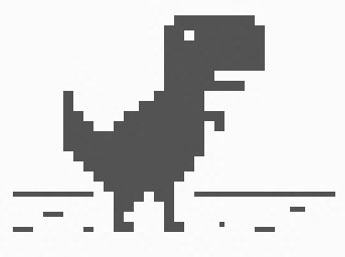
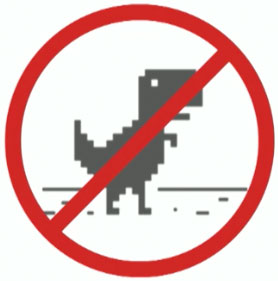
even more slide content tweaks

diff --git a/public/service-worker.js b/public/service-worker.js
@@ -37,11 +37,13 @@ var filesToCache = [
 	'/images/home.svg',
 	'/images/checkmark.svg',
 	'/images/logo.svg',
+	'/images/slides/bad.jpg',
 	'/images/slides/discoverable.jpg',
 	'/images/slides/emmet.jpg',
 	'/images/slides/evergreen.jpg',
 	'/images/slides/feels-like-an-app.jpg',
 	'/images/slides/fruit-ninja.jpg',
+	'/images/slides/great-job.jpg',
 	'/images/slides/installable.jpg',
 	'/images/slides/iphone-safari.jpg',
 	'/images/slides/linkable.jpg',
@@ -49,9 +51,11 @@ var filesToCache = [
 	'/images/slides/progressive-enhancement.jpg',
 	'/images/slides/re-engageable.jpg',
 	'/images/slides/responsive.jpg',
-	'/images/slides/ssl.png',
+	'/images/slides/sad.jpg',
+	'/images/slides/ssl.jpg',
 	'/images/slides/steve-jobs-small.jpg',
 	'/images/slides/steve-jobs.jpg',
+	'/images/slides/thumb-up.jpg',
 	'/images/slides/title-bg.jpg',
 	'/images/icons/favicon-16x16.png',
 	'/images/icons/favicon-32x32.png',

diff --git a/source/service-worker.js b/source/service-worker.js
@@ -37,11 +37,13 @@ var filesToCache = [
 	'/images/home.svg',
 	'/images/checkmark.svg',
 	'/images/logo.svg',
+	'/images/slides/bad.jpg',
 	'/images/slides/discoverable.jpg',
 	'/images/slides/emmet.jpg',
 	'/images/slides/evergreen.jpg',
 	'/images/slides/feels-like-an-app.jpg',
 	'/images/slides/fruit-ninja.jpg',
+	'/images/slides/great-job.jpg',
 	'/images/slides/installable.jpg',
 	'/images/slides/iphone-safari.jpg',
 	'/images/slides/linkable.jpg',
@@ -49,9 +51,11 @@ var filesToCache = [
 	'/images/slides/progressive-enhancement.jpg',
 	'/images/slides/re-engageable.jpg',
 	'/images/slides/responsive.jpg',
-	'/images/slides/ssl.png',
+	'/images/slides/sad.jpg',
+	'/images/slides/ssl.jpg',
 	'/images/slides/steve-jobs-small.jpg',
 	'/images/slides/steve-jobs.jpg',
+	'/images/slides/thumb-up.jpg',
 	'/images/slides/title-bg.jpg',
 	'/images/icons/favicon-16x16.png',
 	'/images/icons/favicon-32x32.png',

diff --git a/source/slides/web-apps-drawbacks.html b/source/slides/web-apps-drawbacks.html
@@ -1,8 +1,9 @@
+<img class="image image--align-right" src="/images/slides/sad.jpg" alt="Sad" />
 <ul>
 	<li>Limited access to native device features (historically)</li>
 	<li>Slow performance over poor connections, no offline access</li>
 	<li>Must support many devices and browsers</li>
-	<li>No app store, so discoverability is reduced</li>
+	<li>No app store, reduced discoverability</li>
 	<li>Limited re-engageability</li>
 </ul>
 

diff --git a/source/slides/advanced-pwa-traits-discoverable.html b/source/slides/advanced-pwa-traits-discoverable.html
@@ -1,6 +1,6 @@
 <img class="image image--align-right" src="/images/slides/discoverable.jpg" alt="Screenshot of the PWA Directory" />
 <ul>
 	<li>Websites identify themselves to search engines as an application that can be cataloged and ranked</li>
-	<li>App directories are emerging</li>
+	<li>PWA directories are emerging</li>
 	<li>PWAs are appearing alongside native apps in some app stores</li>
 </ul>

diff --git a/source/slides/native-apps-drawbacks.html b/source/slides/native-apps-drawbacks.html
@@ -1,3 +1,4 @@
+<img class="image image--align-right" src="/images/slides/bad.jpg" alt="Bad" />
 <ul>
 	<li>Apps must be downloaded and installed from an app store</li>
 	<li>Multiple platforms mean heavy development costs</li>

diff --git a/source/slides/web-apps-benefits.html b/source/slides/web-apps-benefits.html
@@ -1,3 +1,4 @@
+<img class="image image--align-right" src="/images/slides/thumbs-up.jpg" alt="Thumbs up" />
 <ul>
 	<li>Universal, can run on any browser or device</li>
 	<li>Build for one platform (the web)</li>

diff --git a/source/slides/native-apps-benefits.html b/source/slides/native-apps-benefits.html
@@ -1,3 +1,4 @@
+<img class="image image--align-right" src="/images/slides/great-job.jpg" alt="Great Job!" />
 <ul>
 	<li>Better access to device features</li>
 	<li>Higher perceived performance</li>
